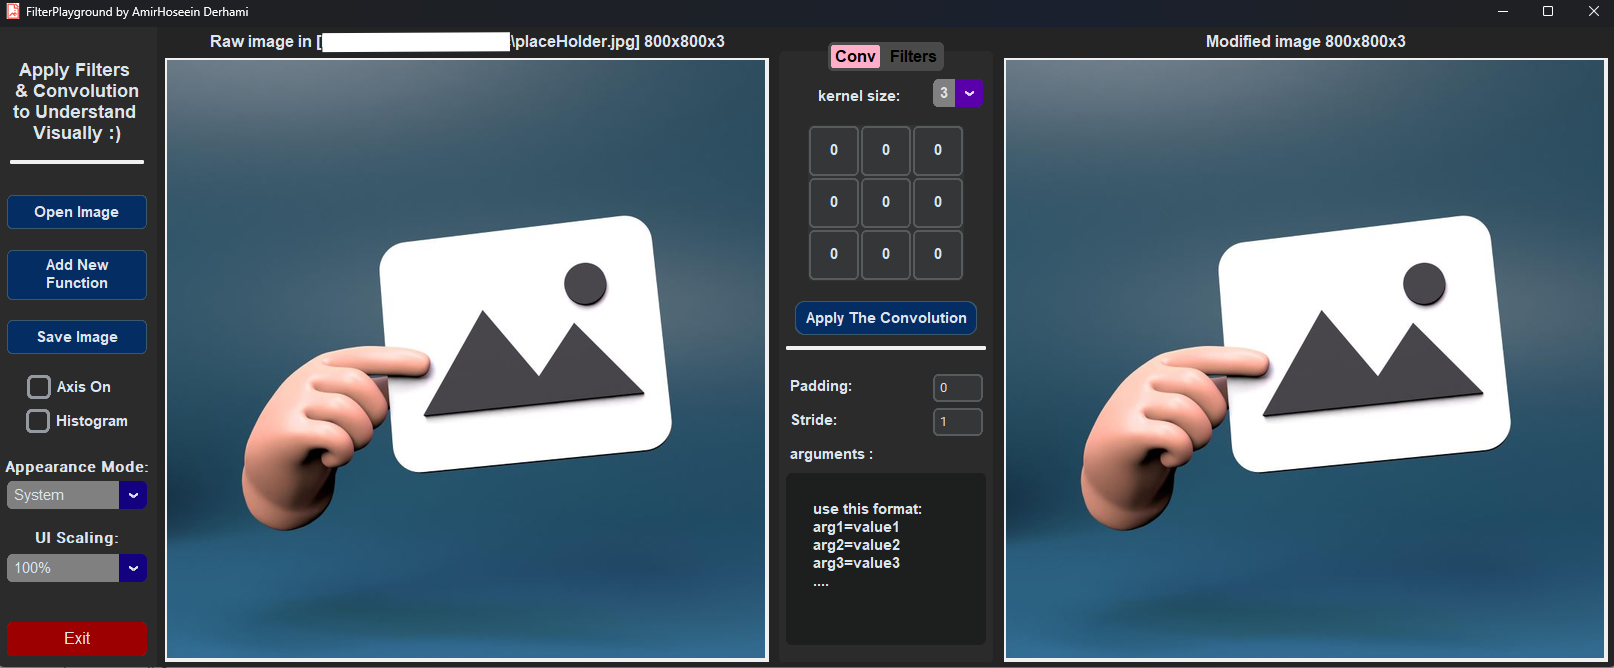
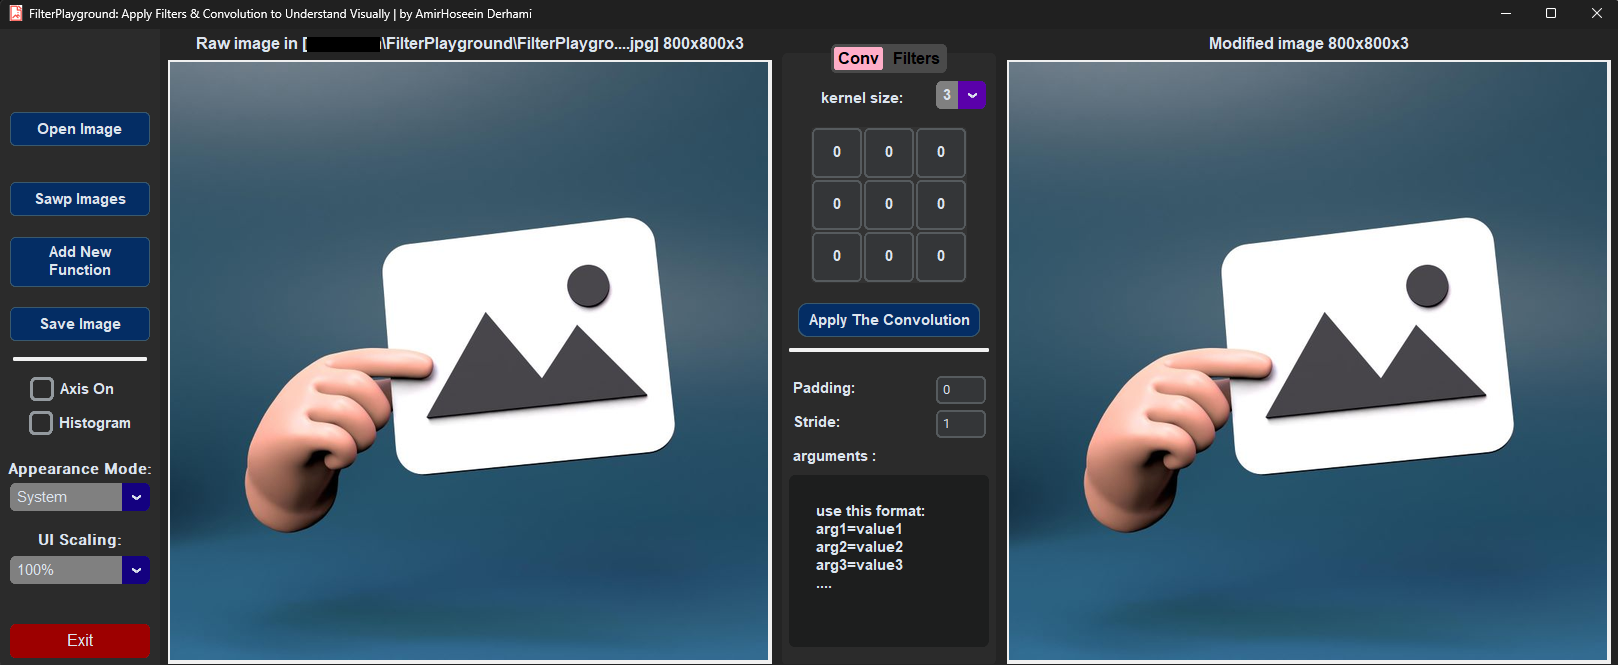
fix bugs and cleanup

diff --git a/sidebar.py b/sidebar.py
@@ -17,6 +17,11 @@ class Sidebar(ctk.CTkFrame):
         self.grid_columnconfigure(0, weight=1)
 
         row = 0
+
+        top_label = ctk.CTkLabel(self, text="", height=60)
+        top_label.grid(row=row, column=1, sticky="nsew", )
+        row += 1
+
         font_conf1 = ctk.CTkFont(family=FONTS['Montserrat'], weight="bold", size=BTN_FS)
 
         # ttk.Separator(self, orient='horizontal').pac k(fill='x', pad y=5)
@@ -26,7 +31,7 @@ class Sidebar(ctk.CTkFrame):
         self.open_image_btn = ctk.CTkButton(self, text="Open Image", fg_color="#042d64",
                                             command=self.open_image_event,
                                             border_color="#3a596d", border_width=1,
-                                            height=35, width=140)
+                                            height=35, width=width)
         self.open_image_btn.grid(row=row, column=1, padx=10, pady=10)
         self.open_image_btn.configure(font=font_conf1)
         row += 1
@@ -35,14 +40,14 @@ class Sidebar(ctk.CTkFrame):
         self.sawp_images_btn = ctk.CTkButton(self, text="Sawp Images", fg_color="#042d64",
                                              command=self.swap_images,
                                              border_color="#3a596d", border_width=1,
-                                             height=35, width=140)
+                                             height=35, width=width)
         self.sawp_images_btn.grid(row=row, column=1, padx=10, pady=(25, 10))
         self.sawp_images_btn.configure(font=font_conf1)
         row += 1
         # Add New Function Button
         self.add_function_btn = ctk.CTkButton(self, text="Add New\nFunction", command=self.add_function_event,
                                               border_color="#3a596d", border_width=1,
-                                              fg_color="#042d64", height=50, width=140)
+                                              fg_color="#042d64", height=50, width=width)
         self.add_function_btn.grid(row=row, column=1, padx=10, pady=10)
         self.add_function_btn.configure(font=font_conf1)
         row += 1
@@ -50,7 +55,7 @@ class Sidebar(ctk.CTkFrame):
         # Save Image Button
         self.save_image_btn = ctk.CTkButton(self, text="Save Image", command=self.save_image_event,
                                             border_color="#3a596d", border_width=1,
-                                            height=35, width=140, fg_color="#042d64")
+                                            height=35, width=width, fg_color="#042d64")
         self.save_image_btn.grid(row=row, column=1, padx=10, pady=10)
         self.save_image_btn.configure(font=font_conf1)
         row += 1

diff --git a/README.md b/README.md
@@ -110,8 +110,7 @@ pyinstaller --onefile --windowed --icon=logo.icn --name=FilterPlayground app.py
 ```
 ### 6.Run exe
 **Now the exe is created and its in the dist folder copy it to the current folder(FilterPlayground).
-double-click the FilterPlayground.exe to open and run it.
-```
+double-click the FilterPlayground.exe to open and run it.**
 ## License
 
 - **This project is licensed under the [MIT License.](LICENSE)**
